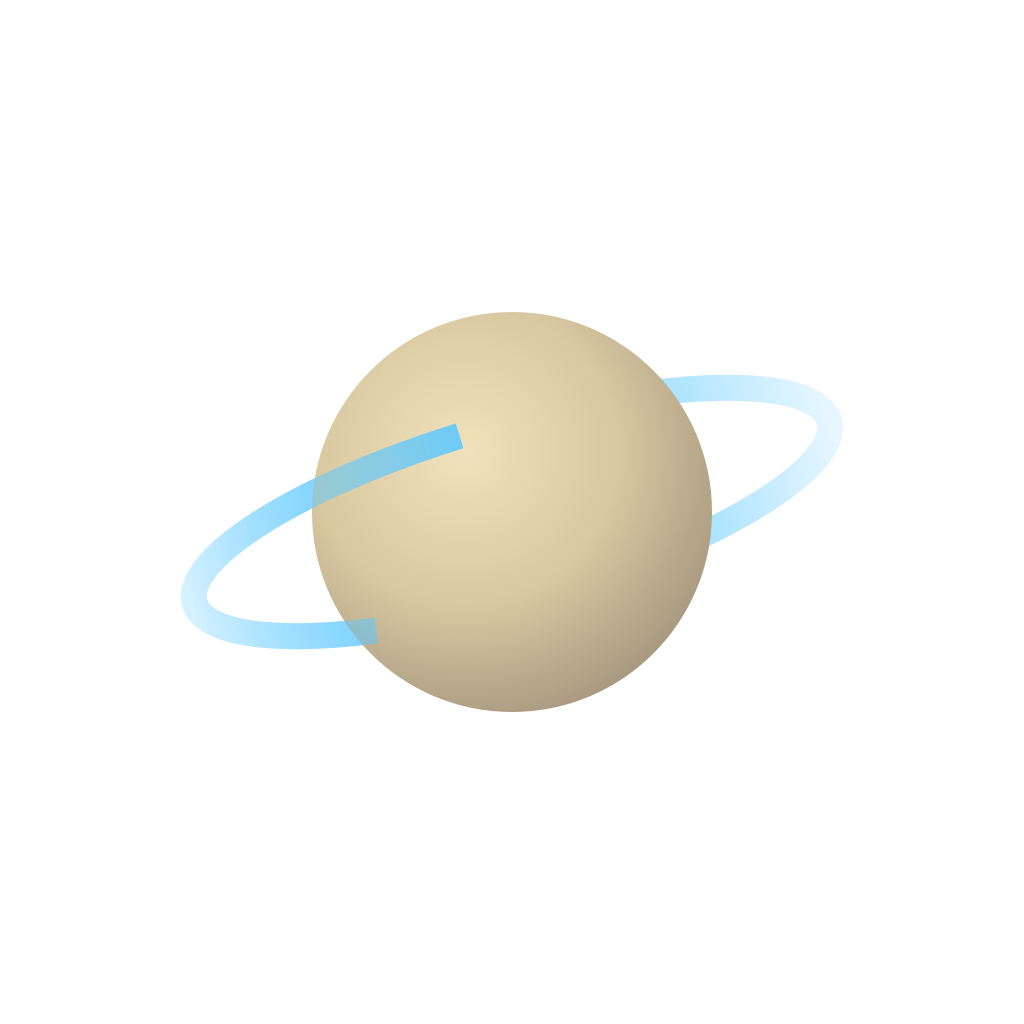
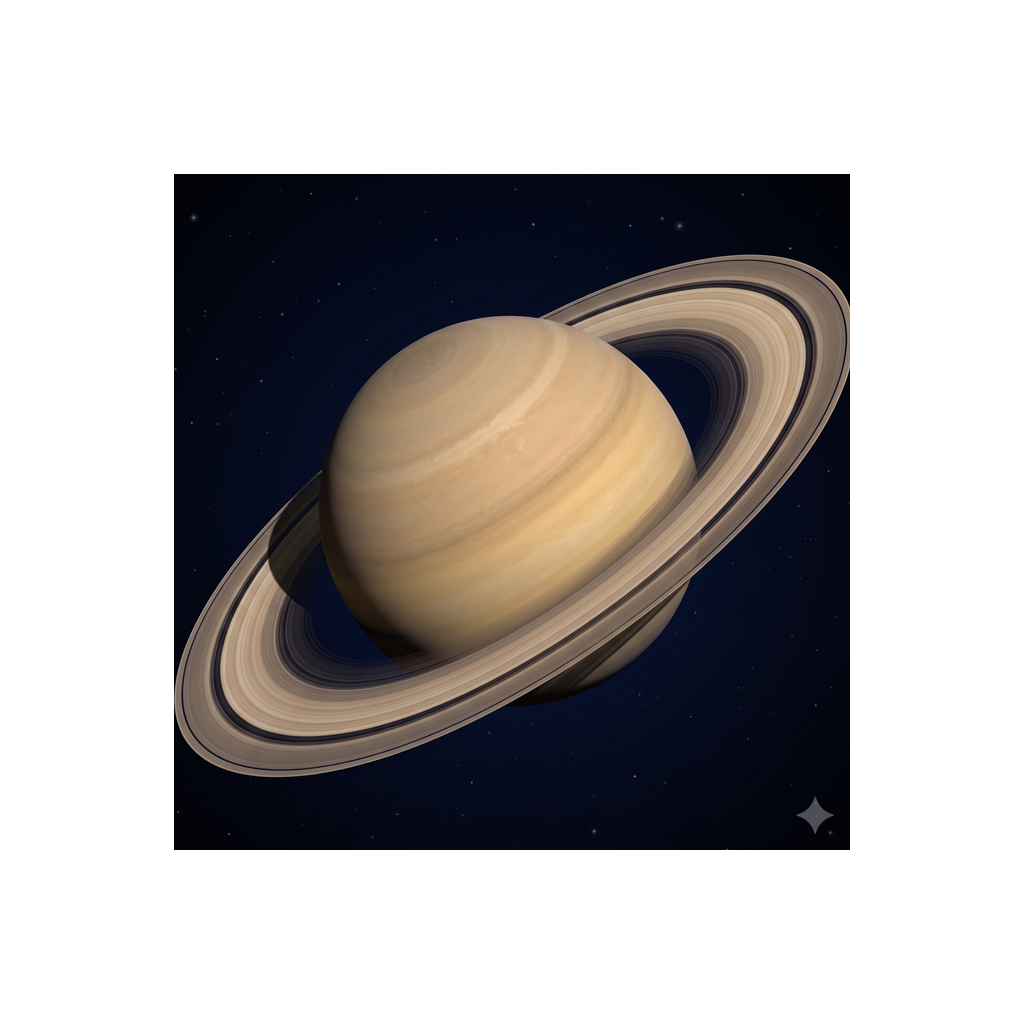
Atualiza showcase a partir do master

diff --git a/js/licenca.js b/js/licenca.js
@@ -1,0 +1,100 @@
+// Licença assinada — validação 100% OFFLINE.
+//
+// Modelo decidido em 08/08/2026: a compra do consumidor final acontece por Play
+// Billing dentro do app. Este módulo cobre o OUTRO canal — escolas, B2B e venda
+// direta internacional — em que o pagamento ocorre no site (Pagar.me/Stripe) e
+// o comprador recebe um token para colar no app.
+//
+// Por que token assinado e não conta de usuário: o público é criança. Login de
+// menor aciona consentimento parental, LGPD para dados de menores e COPPA. Com
+// token, o app continua sem coletar absolutamente nada e sem falar com servidor.
+//
+// Por que ECDSA P-256 e não Ed25519: o minSdk do app é 24 (Android 7) e o
+// Capacitor usa a WebView do sistema. Ed25519 no WebCrypto só existe em
+// WebViews recentes; P-256 é suportado universalmente há anos. A diferença de
+// tamanho de assinatura é irrelevante aqui.
+//
+// O token NÃO é segredo e NÃO é criptografia: qualquer um consegue ler o
+// conteúdo. O que a assinatura garante é que ninguém consegue FORJAR um. Contra
+// compartilhamento a defesa é social (o e-mail do comprador fica gravado e
+// visível no app), não técnica — checagem de assentos exigiria servidor, o que
+// mataria o offline.
+
+// Chave PÚBLICA de verificação (SPKI em base64). A privada NUNCA entra no app:
+// vive só no Worker que emite as licenças.
+// Trocar junto com a chave do servidor — ver scripts/licenca-cli.mjs.
+export const CHAVE_PUBLICA_B64 = 'SUBSTITUIR_PELA_CHAVE_PUBLICA';
+
+const b64urlParaBytes = (s) => {
+  const b64 = s.replace(/-/g, '+').replace(/_/g, '/').padEnd(Math.ceil(s.length / 4) * 4, '=');
+  const bin = atob(b64);
+  const out = new Uint8Array(bin.length);
+  for (let i = 0; i < bin.length; i++) out[i] = bin.charCodeAt(i);
+  return out;
+};
+
+const bytesParaTexto = (b) => new TextDecoder().decode(b);
+
+/**
+ * Valida um token de licença offline.
+ * @param {string} token  no formato `<payload-b64url>.<assinatura-b64url>`
+ * @param {string} [chavePublicaB64]  sobrescreve a chave embutida (testes)
+ * @returns {Promise<{valido: boolean, motivo?: string, dados?: object}>}
+ */
+export async function validarLicenca(token, chavePublicaB64 = CHAVE_PUBLICA_B64) {
+  if (typeof token !== 'string' || !token.includes('.')) {
+    return { valido: false, motivo: 'formato' };
+  }
+  const [payloadB64, assinaturaB64] = token.trim().split('.');
+  if (!payloadB64 || !assinaturaB64) return { valido: false, motivo: 'formato' };
+
+  let dados;
+  try {
+    dados = JSON.parse(bytesParaTexto(b64urlParaBytes(payloadB64)));
+  } catch {
+    return { valido: false, motivo: 'payload-ilegivel' };
+  }
+
+  let ok;
+  try {
+    const chave = await crypto.subtle.importKey(
+      'spki',
+      b64urlParaBytes(chavePublicaB64.replace(/-/g, '+').replace(/_/g, '/')),
+      { name: 'ECDSA', namedCurve: 'P-256' },
+      false,
+      ['verify'],
+    );
+    // Assina-se o payload em base64url TAL COMO VIAJA, não o JSON reserializado:
+    // reserializar muda a ordem das chaves e quebra a assinatura.
+    ok = await crypto.subtle.verify(
+      { name: 'ECDSA', hash: 'SHA-256' },
+      chave,
+      b64urlParaBytes(assinaturaB64),
+      new TextEncoder().encode(payloadB64),
+    );
+  } catch (e) {
+    return { valido: false, motivo: 'erro-cripto' };
+  }
+
+  if (!ok) return { valido: false, motivo: 'assinatura' };
+
+  // Validade opcional (licença de escola pode ser anual). Sem `exp`, é perpétua.
+  if (dados.exp) {
+    const venc = Date.parse(dados.exp);
+    if (Number.isFinite(venc) && Date.now() > venc) {
+      return { valido: false, motivo: 'expirada', dados };
+    }
+  }
+
+  if (dados.p !== 'pro') return { valido: false, motivo: 'produto-desconhecido', dados };
+
+  return { valido: true, dados };
+}
+
+/** Texto de atribuição exibido no app — dissuasor social de compartilhamento. */
+export function descricaoLicenca(dados) {
+  if (!dados) return '';
+  const quem = dados.e || '';
+  const assentos = dados.n && dados.n > 1 ? ` · ${dados.n} licenças` : '';
+  return quem ? `Licença de ${quem}${assentos}` : `Licença ativa${assentos}`;
+}

diff --git a/js/traducoes-ui.js b/js/traducoes-ui.js
@@ -94,7 +94,7 @@ export const UI_TEXTOS = {
     paywallBeneficio2: 'Todas as 10 missões espaciais com trajetórias reais em 3D',
     paywallBeneficio3: 'Ir direto para a data de eclipses e outros eventos',
     paywallBeneficio4: 'Seu peso, idade e salto em cada planeta',
-    paywallPreco: 'R$ 12,90 · compra única',
+    paywallPreco: 'R$ 19,90 · compra única',
     paywallReciprocidade: 'Os 43 astros, o tour guiado e os controles de tempo já são seus, de graça. O Pro abre o resto.',
     paywallAncora: 'Pague uma vez, use para sempre — sem mensalidade.',
     paywallPerda: 'Sem o Pro, o Quiz completo, as 10 missões e os eventos astronômicos seguem trancados.',
@@ -252,7 +252,7 @@ export const UI_TEXTOS = {
     paywallBeneficio2: 'All 10 space missions with real 3D trajectories',
     paywallBeneficio3: 'Jump straight to the date of eclipses and other events',
     paywallBeneficio4: 'Your weight, age and jump on every planet',
-    paywallPreco: 'US$ 2.99 · one-time purchase',
+    paywallPreco: 'US$ 4.99 · one-time purchase',
     paywallReciprocidade: 'The 43 worlds, the guided tour and the time controls are already yours, free. Pro opens the rest.',
     paywallAncora: 'Pay once, keep it forever — no subscription.',
     paywallPerda: 'Without Pro, the full Quiz, all 10 missions and the astronomy events stay locked.',
@@ -410,7 +410,7 @@ export const UI_TEXTOS = {
     paywallBeneficio2: 'Las 10 misiones espaciales con trayectorias reales en 3D',
     paywallBeneficio3: 'Ir directo a la fecha de eclipses y otros eventos',
     paywallBeneficio4: 'Tu peso, edad y salto en cada planeta',
-    paywallPreco: 'US$ 2,99 · pago único',
+    paywallPreco: 'US$ 4,99 · pago único',
     paywallReciprocidade: 'Los 43 astros, el tour guiado y los controles de tiempo ya son tuyos, gratis. Pro abre el resto.',
     paywallAncora: 'Paga una vez, para siempre — sin suscripción.',
     paywallPerda: 'Sin Pro, el Quiz completo, las 10 misiones y los eventos astronómicos siguen bloqueados.',

diff --git a/js/premium.js b/js/premium.js
@@ -28,6 +28,21 @@ class PlayBillingProvider {
 
 const PROVIDER = 'mock';
 
+// v1.0 (teste fechado da Play Store, 08/08/2026): NÃO existe compra dentro do
+// app. Enquanto o Play Billing real não está integrado, seria desonesto — e
+// risco de reprovação — anunciar um Pro que não cobra nada (o PROVIDER acima
+// ainda é 'mock', que gera transação falsa).
+//
+// Com este interruptor ligado, todo o conteúdo fica liberado e o paywall se
+// torna inalcançável: `exigir()` e `exigirItem()` são os ÚNICOS pontos que o
+// abrem (paywall.js:183 registra a função por `definirPaywall`), e ambos
+// passam a retornar true. Os selos "PRO" também somem sozinhos, porque quiz,
+// você-no-espaço, eventos e badges derivam a marcação do mesmo estado.
+//
+// Para reativar o freemium: ponha `false` aqui E integre o billing real
+// (trocar PROVIDER, ver android/RELEASE.md e o HANDOFF de 08/08).
+const TUDO_LIBERADO = true;
+
 export function criarPremium() {
   let estado = { ativo: false, transacaoId: null, data: null };
   const listeners = new Set();
@@ -70,11 +85,13 @@ export function criarPremium() {
 
   return {
     get ativo() {
+      if (TUDO_LIBERADO) return true;
       return estado.ativo === true;
     },
 
     recurso(id) {
       // true se id NÃO é premium, OU se premium está ativo
+      if (TUDO_LIBERADO) return true;
       if (!RECURSOS_PREMIUM.includes(id)) {
         return true;
       }
@@ -96,6 +113,7 @@ export function criarPremium() {
     // Item específico dentro de um recurso premium (provinha):
     // liberado se o recurso todo está acessível OU o item está na lista grátis
     permitido(recursoId, itemId) {
+      if (TUDO_LIBERADO) return true;
       if (this.recurso(recursoId)) return true;
       return (ITENS_GRATIS[recursoId] || []).includes(itemId);
     },

diff --git a/js/main.js b/js/main.js
@@ -1,20 +1,20 @@
 import { DADOS } from './dados.js?v=22';
 import { SistemaSolar3D } from './motor3d.js?v=41';
-import { iniciarUI } from './ui.js?v=44';
-import { iniciarMobileDock } from './mobile-dock.js?v=15';
+import { iniciarUI } from './ui.js?v=45';
+import { iniciarMobileDock } from './mobile-dock.js?v=16';
 import { EVENTOS } from './eventos.js?v=9';
 import { MISSOES } from './missoes.js?v=12';
 // só a lista de pacotes, para o painel de Conquistas derivar o total real
 import { QUIZ_PACOTES } from './quiz-dados.js?v=4';
 import { Trajetorias } from './trajetorias.js?v=20';
-import { carregarConteudoTraduzido, aplicarTraducoes, aplicarHtml, t } from './i18n.js?v=27';
-import { criarPremium } from './premium.js?v=3';
+import { carregarConteudoTraduzido, aplicarTraducoes, aplicarHtml, t } from './i18n.js?v=28';
+import { criarPremium } from './premium.js?v=4';
 import { iniciarPaywall } from './paywall.js?v=4';
 import { iniciarQuiz } from './quiz.js?v=11';
 import { iniciarVoceNoEspaco } from './voce-no-espaco.js?v=4';
 import { iniciarProgresso } from './progresso.js?v=9';
-import { iniciarMusica } from './musica.js?v=9';
-import { iniciarTutorial } from './tutorial.js?v=4';
+import { iniciarMusica } from './musica.js?v=10';
+import { iniciarTutorial } from './tutorial.js?v=5';
 
 // i18n: aplica o overlay do idioma ANTES de montar motor e UI
 const traducao = await carregarConteudoTraduzido();

diff --git a/js/mobile-dock.js b/js/mobile-dock.js
@@ -5,7 +5,7 @@
 // FASE 1: dock + título + nível/engrenagem + HUD + transporte + calendário +
 // settings + tela "gire o celular" + esconder chrome desktop no modo dock/girar.
 // Painéis Explorar/Experiências são SHELLS vazios nesta fase (conteúdo = Fase 2).
-import { t, trocarIdioma, getIdioma } from './i18n.js?v=27';
+import { t, trocarIdioma, getIdioma } from './i18n.js?v=28';
 
 const MES = ['jan', 'fev', 'mar', 'abr', 'mai', 'jun', 'jul', 'ago', 'set', 'out', 'nov', 'dez'];
 const MESF = ['Janeiro', 'Fevereiro', 'Março', 'Abril', 'Maio', 'Junho', 'Julho', 'Agosto', 'Setembro', 'Outubro', 'Novembro', 'Dezembro'];

diff --git a/js/ui.js b/js/ui.js
@@ -1,4 +1,4 @@
-import { t, tToque, formatarDataLonga, formatarDataCompacta, formatarDataCurta, ordinal, trocarIdioma, getIdioma } from './i18n.js?v=27';
+import { t, tToque, formatarDataLonga, formatarDataCompacta, formatarDataCurta, ordinal, trocarIdioma, getIdioma } from './i18n.js?v=28';
 
 // Telas estreitas: "29 de julho de 2026" quebra em várias linhas na barra de
 // tempo. Abaixo de 430px usamos a versão compacta (mês abreviado).

diff --git a/js/musica.js b/js/musica.js
@@ -4,7 +4,7 @@
 // e os brilhos são aleatórios). Liga/desliga pelo botão ♫ na barra de ações;
 // preferência persistida. O AudioContext só nasce/resume em gesto do usuário
 // (política de autoplay); com a aba oculta o contexto é suspenso (bateria).
-import { getIdioma } from './i18n.js?v=27';
+import { getIdioma } from './i18n.js?v=28';
 
 const CHAVE_STORAGE = 'sistema-solar-musica';
 

diff --git a/js/i18n.js b/js/i18n.js
@@ -1,6 +1,6 @@
 // Núcleo de internacionalização (pt = fonte; en/es = overlays com fallback).
 // Contratos descritos na SPEC.md, seção EXPANSÃO V3.
-import { UI_TEXTOS } from './traducoes-ui.js?v=22';
+import { UI_TEXTOS } from './traducoes-ui.js?v=23';
 
 const IDIOMAS = ['pt', 'en', 'es'];
 const CHAVE_STORAGE = 'sistema-solar-idioma';

diff --git a/index.html b/index.html
@@ -29,6 +29,6 @@
       }
     }
   </script>
-  <script type="module" src="js/main.js?v=99"></script>
+  <script type="module" src="js/main.js?v=101"></script>
 </body>
 </html>

diff --git a/js/tutorial.js b/js/tutorial.js
@@ -1,4 +1,4 @@
-import { t, tToque } from './i18n.js?v=27';
+import { t, tToque } from './i18n.js?v=28';
 
 const CHAVE = 'sistema-solar-tutorial-visto';
 
